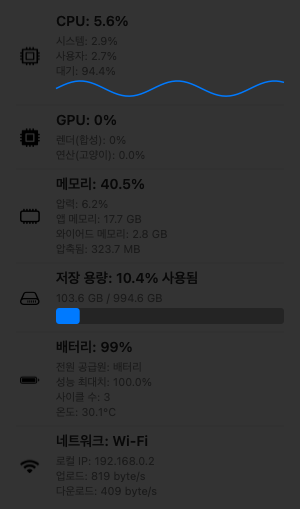
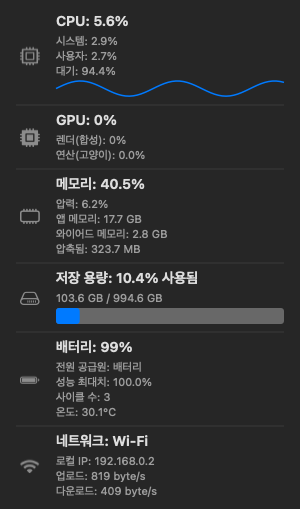
README panel screenshot: render --statsdump in dark mode
The dump drew the view's dynamic colors under the default (light) appearance on
a dark background, so text/icons came out as unreadable gray. Render under
darkAqua via performAsCurrentDrawingAppearance so they resolve light-on-dark.

diff --git a/Sources/BusyCat/main.swift b/Sources/BusyCat/main.swift
@@ -37,10 +37,17 @@ if CommandLine.arguments.contains("--statsdump") {
     m.netType = "Wi-Fi"; m.localIP = "192.168.0.2"; m.netUp = 819; m.netDown = 409
     let v = StatsView()
     v.update(m, history: (0..<60).map { 20 + 18 * sin(Double($0) / 4) })
+    // Render under dark appearance so the view's dynamic colors (labelColor,
+    // secondaryLabelColor, tinted icons) resolve to their light-on-dark variants
+    // — otherwise dark text on the dark menu bg comes out as unreadable gray.
+    let dark = NSAppearance(named: .darkAqua)!
+    v.appearance = dark
     let size = v.frame.size
     let img = NSImage(size: size, flipped: true) { rect in
-        NSColor(white: 0.20, alpha: 1).setFill(); rect.fill()
-        v.draw(rect)
+        dark.performAsCurrentDrawingAppearance {
+            NSColor(white: 0.15, alpha: 1).setFill(); rect.fill()
+            v.draw(rect)
+        }
         return true
     }
     if let tiff = img.tiffRepresentation, let rep = NSBitmapImageRep(data: tiff),